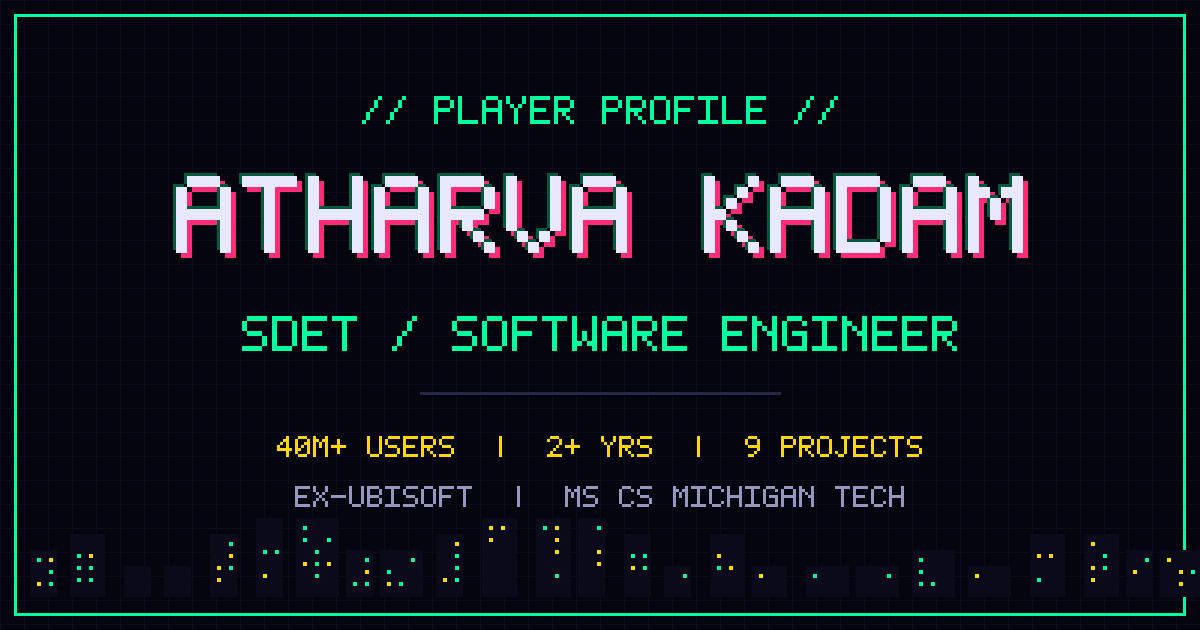
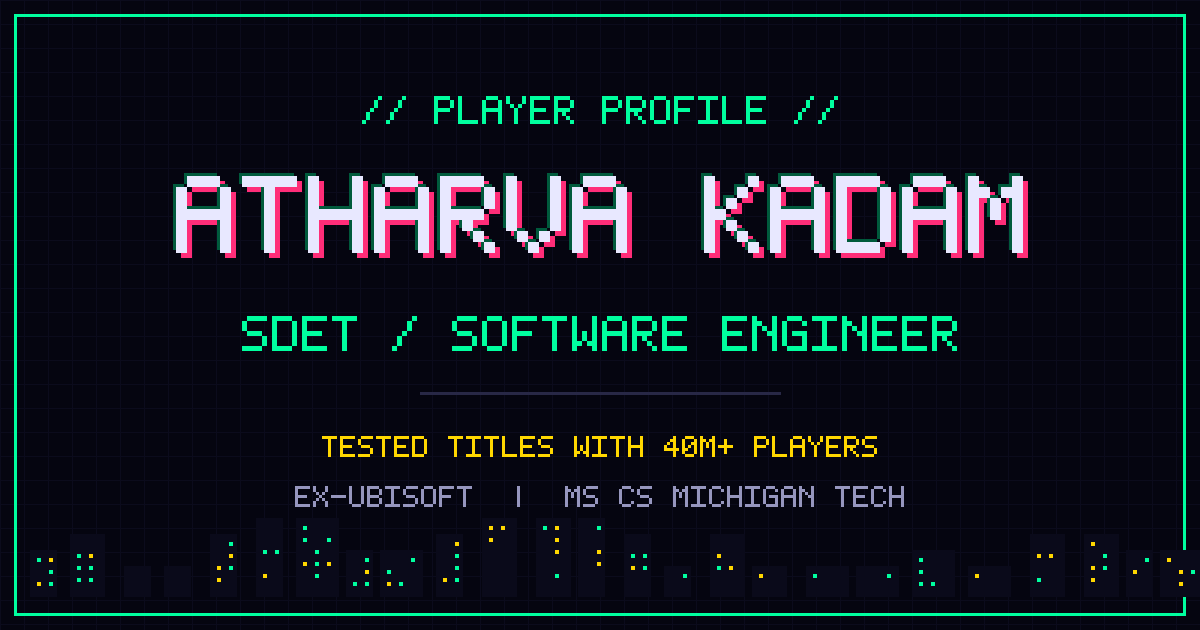
Correct overstated claims in hero stats and social card
The stat panel added in 9e2e4ea made two claims Atharva has not made.

"40M+ USERS REACHED" read as personal reach. The work was QA and test
automation on titles that have 40M+ players, which is a different claim.
Relabelled to "PLAYERS ON TITLES TESTED", matching the attributive
phrasing the rest of the page already used ("software serving 40M+
users", "2 titles serving 40M+ users").

"9 PROJECTS SHIPPED" overstated coursework and personal projects as
shipped products. Now "PROJECTS BUILT".

The social card carried the same two claims; its stat line is now
"TESTED TITLES WITH 40M+ PLAYERS" and the project count is dropped.

Also corrects a pre-existing line: the WatchTime detail bullet said
"Shipped as a web app and, via Capacitor, a native Android app". It is
not shipped yet, so it now reads "Builds as a web app...". The card and
modal make no other release claim.

Changed region(s): [[0.2158, 0.6937, 0.7708, 0.7238]]

diff --git a/js/main.js b/js/main.js
@@ -386,7 +386,7 @@ const PROJECT_DATA = {
       'Rewatch tracking increments watch time and rewatch counts without inflating episode or progress totals',
       'Integrates <b>TMDB</b> (metadata/posters), <b>OMDb</b> (IMDb/Rotten Tomatoes ratings), and <b>TVmaze</b> (episode runtimes), each using the user\'s own free API key',
       '<b>TV Time migration</b> -- imports a user\'s full watch history from TV Time\'s GDPR CSV export or a third-party JSON export, with guided resolution of ambiguous title matches',
-      'Shipped as a web app and, via <b>Capacitor</b>, a native <b>Android</b> app (min API 24) with full JSON backup/restore',
+      'Builds as a web app and, via <b>Capacitor</b>, a native <b>Android</b> app (min API 24) with full JSON backup/restore',
     ],
     actions: [
       { label: 'GITHUB', cls: 'ach-btn-github', href: 'https://github.com/AtharvaK14/WatchTime' },

diff --git a/index.html b/index.html
@@ -88,7 +88,7 @@
     <dl class="hero-hud">
       <div class="hud-stat">
         <dt class="hud-val">40M+</dt>
-        <dd class="hud-lbl">USERS REACHED</dd>
+        <dd class="hud-lbl">PLAYERS ON TITLES TESTED</dd>
       </div>
       <div class="hud-stat">
         <dt class="hud-val">2+</dt>
@@ -96,7 +96,7 @@
       </div>
       <div class="hud-stat">
         <dt class="hud-val">9</dt>
-        <dd class="hud-lbl">PROJECTS SHIPPED</dd>
+        <dd class="hud-lbl">PROJECTS BUILT</dd>
       </div>
     </dl>
     <div class="hero-tags">
